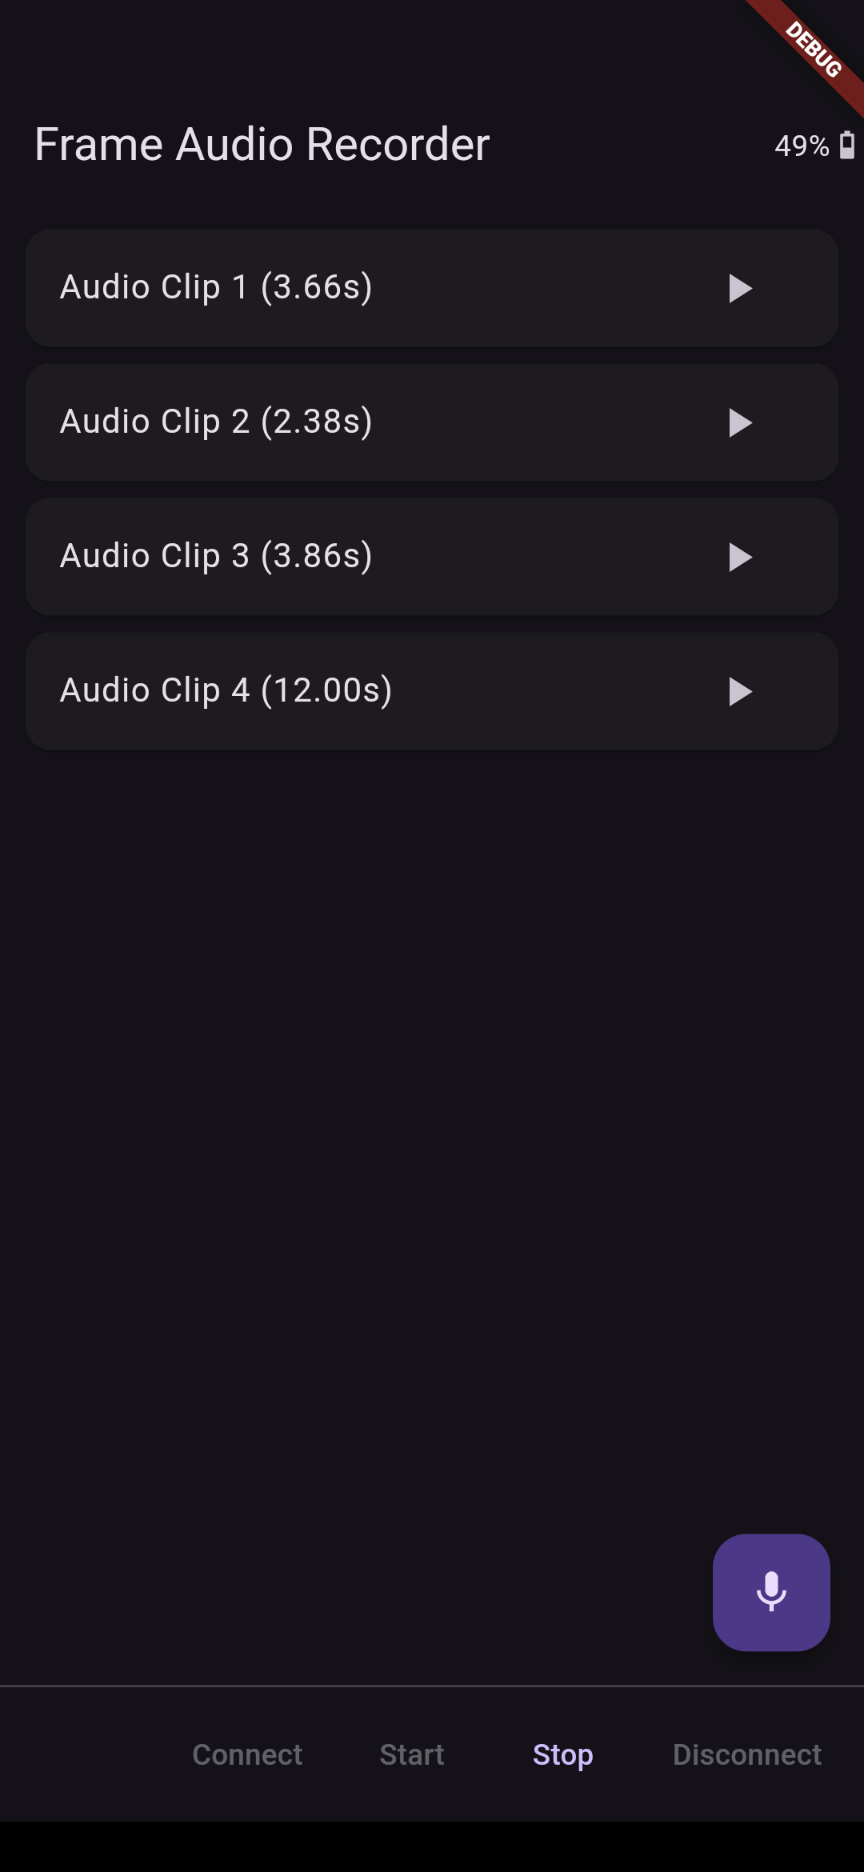
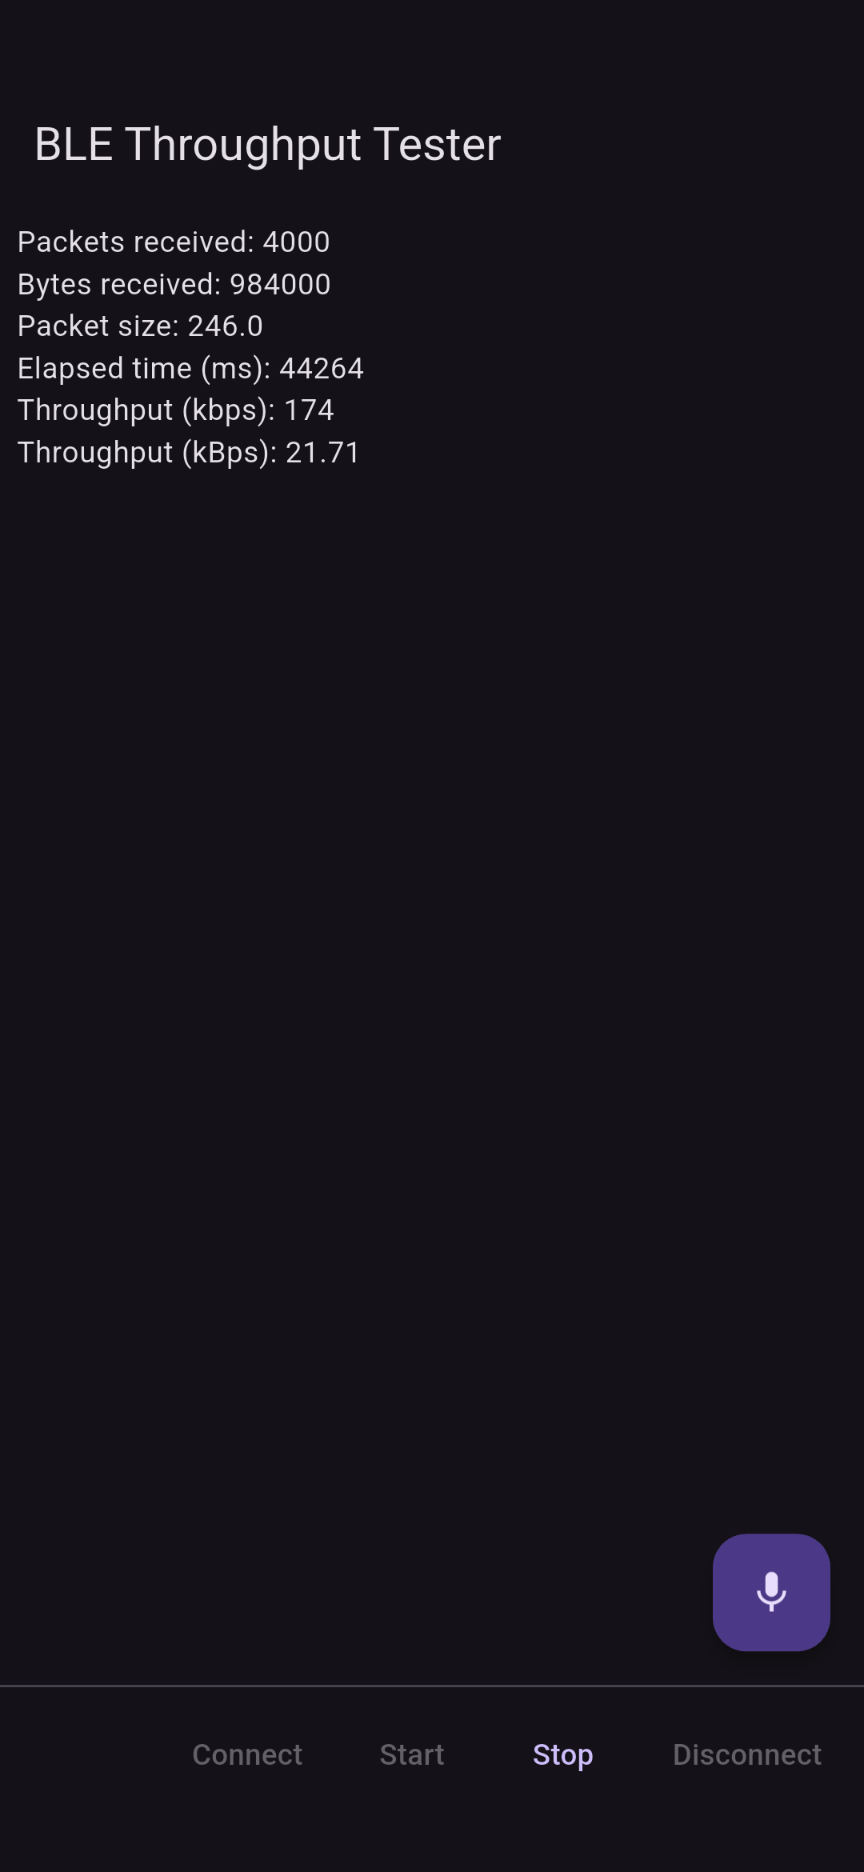
flutter: updated ble_throughput example

diff --git a/flutter/packages/simple_brilliant_app/examples/ble_throughput/README.md b/flutter/packages/simple_brilliant_app/examples/ble_throughput/README.md
@@ -1,17 +1,8 @@
-# Frame Audio Clip Recorder
+# BLE Throughput Tester
 
-Record streamed audio clips from the Brilliant Labs Frame into a list for review and playback and Sharing.
+Measures Bluetooth Low Energy (BLE) throughput from Frame/Halo to phone.
 
-Audio is recorded at 8kHz, 16-bit linear PCM and streamed back in real-time so long recordings (that would exceed Frame memory) are possible.
-
-Playback uses the `raw_sound` Flutter package (in fact a fork of the original package due to build/version issues with the original).
-
-Sharing uses the `share_plus` Flutter package.
-
-Very short clips (< 256ms) can be recorded but won't be played since `raw_sound` doesn't seem to play clips shorter than its buffer size (4096 bytes) on Android, at least.
+4000 packets are sent, ~1MB of data.
 
 ### Screenshots
 ![Screenshot1](docs/screenshot1.png)
-
-### Architecture
-![Architecture](docs/Frame%20App%20Architecture%20-%20Audio%20Clip%20Recorder.svg)
